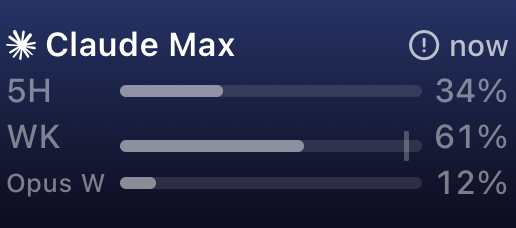
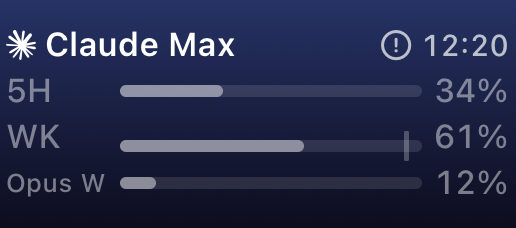
fix(ios-widget): distinct 24h render and aged needs-login fixture

Changed region(s): [[0.7132, 0.1228, 0.9922, 0.2763]]

diff --git a/iOS/WidgetTests/RenderMatrixTests.swift b/iOS/WidgetTests/RenderMatrixTests.swift
@@ -58,7 +58,7 @@ final class RenderMatrixTests: XCTestCase {
         }
         let states: [(String, UsageEntry)] = [
             ("stale", F.entry(F.claudeStale, status: .stale)),
-            ("needslogin", F.entry(F.claudeMax, status: .needsLogin)),
+            ("needslogin", F.entry(F.claudeNeedsLogin, status: .needsLogin)),
             ("afterreset", F.entry(F.claudeAfterReset)),
             ("empty", F.entry(nil, account: nil, status: nil)),
             ("codex", F.entry(F.codexPlus, account: F.codexAccount)),
@@ -73,8 +73,9 @@ final class RenderMatrixTests: XCTestCase {
         remaining.showRemaining = true
         var countdown = DisplaySettings.default
         countdown.resetStyle = .countdown
+        // The base renders 24 h times in the fixture locale, so this variant forces 12 h to differ.
         var hour24 = DisplaySettings.default
-        hour24.hour24 = .on
+        hour24.hour24 = .off
         for (variant, settings) in [("remaining", remaining), ("countdown", countdown), ("24h", hour24)] {
             cases.append(Case(name: "small-glass-fullcolor-dark-\(variant)", family: .small, mode: smallModes[1], entry: F.entry(F.claudeMax, settings: settings)))
         }
@@ -127,6 +128,11 @@ final class RenderMatrixTests: XCTestCase {
                 let ratio = Self.differingRatio(image, back)
                 XCTAssertGreaterThanOrEqual(ratio, c.mode.render == .accented ? 0.05 : 0.01, "\(c.name): widget nearly invisible (\(ratio))")
             }
+        }
+        let base = try Data(contentsOf: dir.appendingPathComponent("small-glass-fullcolor-dark.png"))
+        for variant in ["remaining", "countdown", "24h"] {
+            let data = try Data(contentsOf: dir.appendingPathComponent("small-glass-fullcolor-dark-\(variant).png"))
+            XCTAssertNotEqual(data, base, "\(variant) renders identical to its base")
         }
     }
 

diff --git a/iOS/WidgetTests/Fixtures/WidgetFixtures.swift b/iOS/WidgetTests/Fixtures/WidgetFixtures.swift
@@ -36,6 +36,13 @@ enum WidgetFixtures {
         return s
     }
 
+    /// Fetched 3 h before `now`, for the needs-login render.
+    static var claudeNeedsLogin: UsageSnapshot {
+        var s = claudeMax
+        s.fetchedAt = now.addingTimeInterval(-3 * 3600)
+        return s
+    }
+
     /// The 5-hour window reset 1 min before `now`; fetched 6 min ago, before the reset.
     static let claudeAfterReset = UsageSnapshot(accountID: claudeMax.accountID, fetchedAt: now.addingTimeInterval(-6 * 60), meters: [
         Meter(kind: .session5h, label: "5-hour", percentUsed: 97, resetsAt: now.addingTimeInterval(-60), windowLength: .seconds(18000)),
